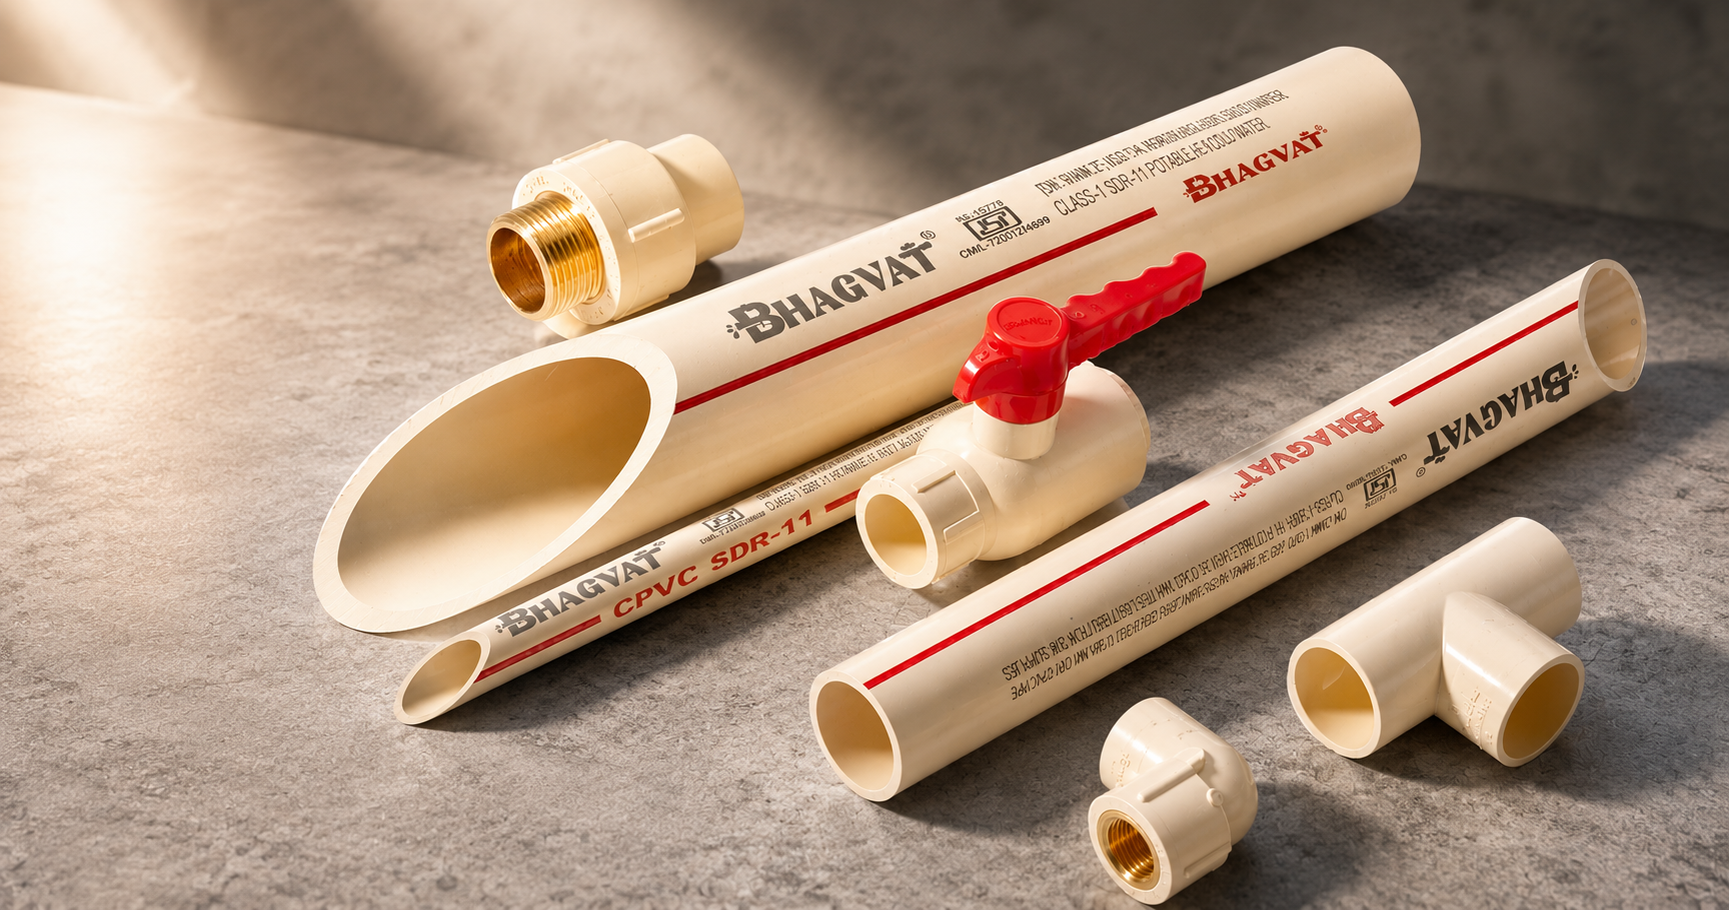
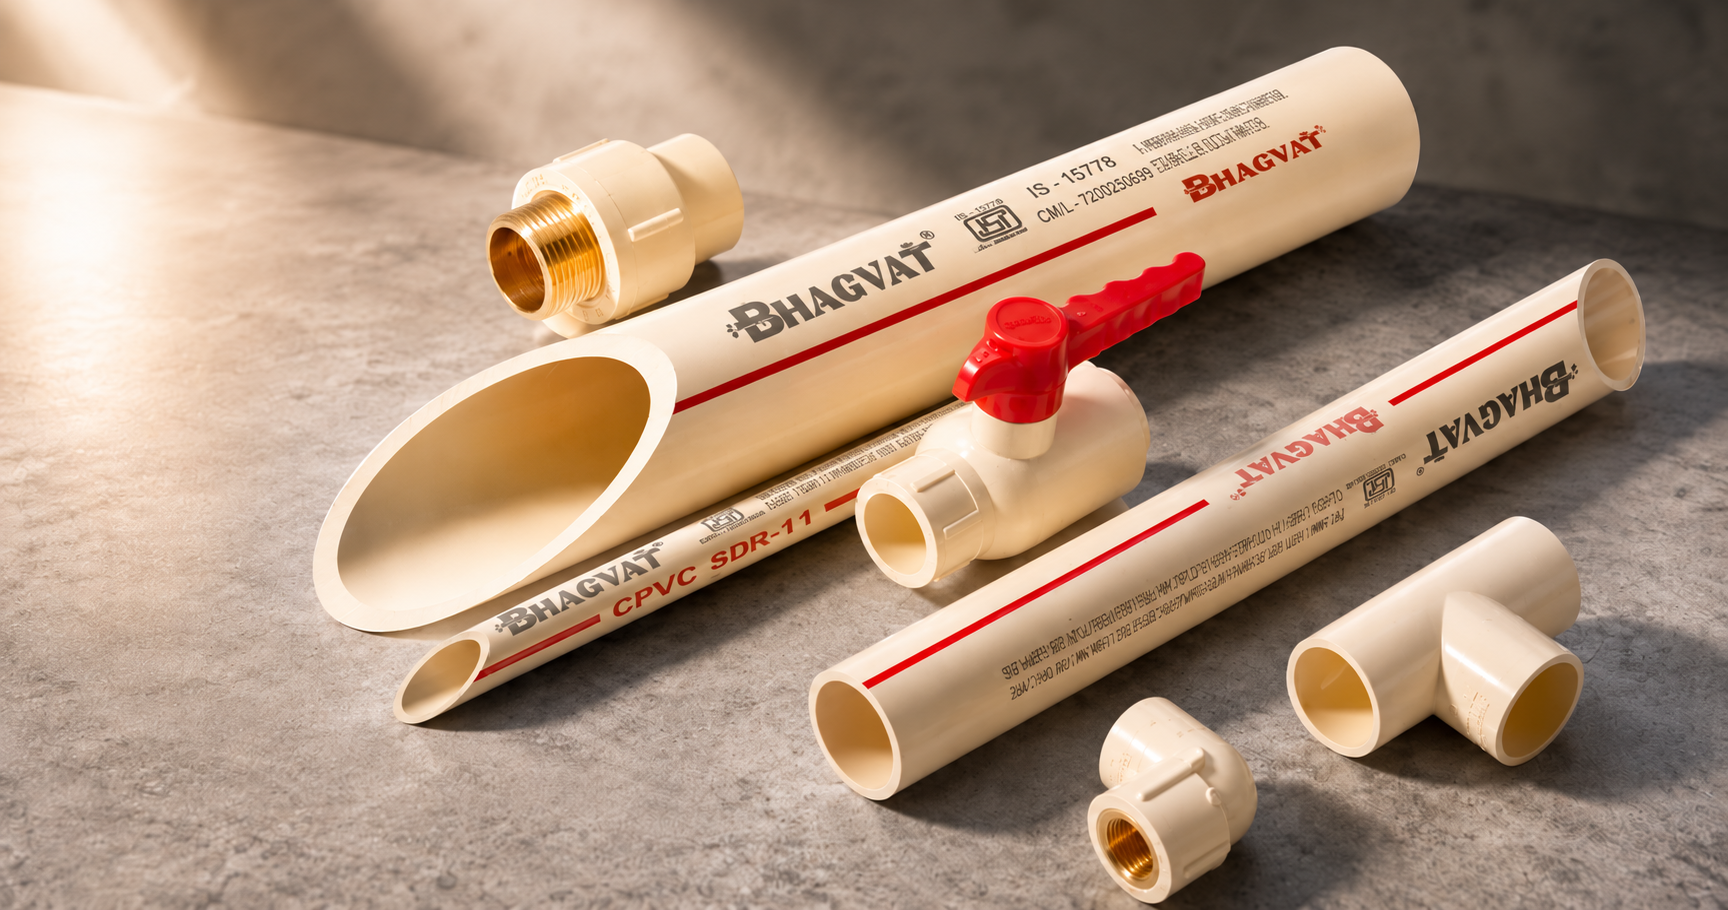
changes acter voice notes

diff --git a/src/components/products/cpvc-plain-fittings/CPVCPlainFittingCatalog.jsx b/src/components/products/cpvc-plain-fittings/CPVCPlainFittingCatalog.jsx
@@ -15,7 +15,7 @@ import {
 // import ImgMTA from "../../../../public/Images/products/cpvc/plain/MTA.jpeg";
 // import ImgFTA from "../../../../public/Images/products/cpvc/plain/FTA.jpeg";
 // import ImgCoupler from "../../../../public/Images/products/cpvc/plain/Coupler.jpeg";
-// import ImgEndCap from "../../../../public/Images/products/cpvc/plain/EndCap.png";
+// import ImgEndCap from "../../../../public/Images/products/cpvc/plain/EndCap.jpeg";
 // import ImgUnion from "../../../../public/Images/products/cpvc/plain/Union.jpeg";
 // import Img45D from "../../../../public/Images/products/cpvc/plain/45D.jpeg";
 // import ImgReducerTee from "../../../../public/Images/products/cpvc/plain/REDUCERTEE.png";
@@ -63,7 +63,7 @@ const products =
   {
     "title": "End Cap",
     "desc": "Seals the pipe end securely to prevent water leakage.",
-    "img": "/Images/products/cpvc/plain/EndCap.png"
+    "img": "/Images/products/cpvc/plain/EndCap.jpeg"
   },
   {
     "title": "Union",
@@ -94,6 +94,16 @@ const products =
     "title": "Cross Tee",
     "desc": "Four-way fitting used to distribute water flow in multiple directions.",
     "img": "/Images/products/cpvc/plain/CROSSTEE.png"
+  },
+     {
+    "title": "Reducer Coupler",
+    "desc": "Joins different pipe sizes while maintaining smooth flow.",
+    "img": "/Images/products/cpvc/plain/REDUCERCOUPLER.jpeg"
+  },
+  {
+    "title": "Reducer Bush",
+    "desc": "Ensures seamless transition between varying pipe diameters.",
+    "img": "/Images/products/cpvc/plain/REDUCERBUSH.jpeg"
   },
   {
     "title": "End Plug",

diff --git a/src/components/home/CPVCSEOSection.jsx b/src/components/home/CPVCSEOSection.jsx
@@ -14,26 +14,26 @@ const seoCategories = [
       "CPVC PIPE FOR HOT WATER, 0.5 inch",
       "BHAGVAT 2 inches ISI CPVC PLUMBIG PIPE",
       "CPVC Plastic Plumbing Pipes Bhagvat",
-      "BHAGVAT 1 inch Cpvc Pipes Sdr-13.5, DR 9, SDR7 5 Mtr",
-      "Cpvc Pipes Sdr-13.5, DR 9, SDR7 3 Mtr",
+      "BHAGVAT 1 inch Cpvc Pipes Sdr-13.5, SDR 9, SDR7 5 Mtr",
+      "Cpvc Pipes Sdr-13.5, SDR 9, SDR7 3 Mtr",
       "BHAGVAT 0.5 inch Cpvc Pipes Sdr-11 5 Mtr",
       "BHAGVAT 2 inches CPVC PIPES SDR 11",
       "BHAGVAT Cpvc Pipes Sdr-11 5 Mtr",
       "BHAGVAT CPVC Pipe SDR-11 5 Mtr",
       "BHAGVAT 1 inch Cpvc Pipes Sdr 11 5 Mtr",
-      "CPVC Pipe Sdr-13.5, DR 9, SDR7 3mtr",
-      "BHAGVAT 0.75 inch CPVC Pipe SDR-13.5, DR 9, SDR7 5 MTR",
+      "CPVC Pipe Sdr-13.5, SDR 9, SDR7 3mtr",
+      "BHAGVAT 0.75 inch CPVC Pipe SDR-13.5, SDR 9, SDR7 5 MTR",
       "CPVC Pipe - SDR 11",
-      "CPVC Pipe - SDR 13.5, DR 9, SDR7",
+      "CPVC Pipe - SDR 13.5, SDR 9, SDR7",
       "3/4 inch CPVC SDR 11 C SDR 119",
       "CPVC 2 inches Chlorinated Polyvinyl Chloride Pipe",
       "Isi Cpvc Pipes",
       "Bhagvat 11 SDR CPVC Pipe",
       "Cpvc Pipe 3 Mtr",
       "CPVC Pipe 3 Mtr",
-      "Bhagvat 13.5, DR 9, SDR7 SDR 1 Inch CPVC Pipe",
+      "Bhagvat 13.5, SDR 9, SDR7 SDR 1 Inch CPVC Pipe",
       "1 inch Bhagvat CPVC Pipe",
-      "0.75 inch Bhagvat CPVC SDR-13.5, DR 9, SDR7 PIPES",
+      "0.75 inch Bhagvat CPVC SDR-13.5, SDR 9, SDR7 PIPES",
       "CPVC Pipes Sch-40 5 Mtr",
       "CPVC Pipes Sch-80 5 Mtr",
       "CPVC Pipe Sch-40 5 Mtr",

diff --git a/src/components/home/WhyBhagvat.jsx b/src/components/home/WhyBhagvat.jsx
@@ -1,21 +1,21 @@
 import React from "react";
 import Image from "next/image";
 
-import FactoryImg from "../../../public/Images/home/factory.webp";
+import FactoryImg from "../../../public/Images/home/factory.png";
 import Pipes from "../../../public/Images/home/Pipes.png";
 // import Broucher from "../../../public/Doc/Bhagvat.pdf";
 import Link from "next/link";
 
 const features = [
   {
-    number: "15+",
+    number: "13+",
     title: "Years Experience",
     desc: "Trusted manufacturing expertise in CPVC, UPVC, and SWR piping systems.",
   },
   {
     number: "ISI Certified",
     title: "Certified Quality",
-    desc: "ISI 9001:2015 and ISI certified manufacturing standards.",
+    desc: "IS 15778 ISI certified manufacturing standard",
   },
   {
     number: "PAN India and Export",
@@ -25,7 +25,7 @@ const features = [
   {
     number: "SCH",
     title: "Industrial Standards",
-    desc: "Engineered with SDR 11, SDR 13.5, DR 9, SDR7, SCH 40 & SCH 80 specifications.",
+    desc: "Engineered with SDR 11, SDR 13.5, SDR 9, SDR7, SCH 40 & SCH 80 specifications.",
   },
 ];
 

diff --git a/src/components/products/swr-self-fittings/SwrSelfFitCatalog.jsx b/src/components/products/swr-self-fittings/SwrSelfFitCatalog.jsx
@@ -17,7 +17,7 @@ import ImgDoorBend from "../../../../public/Images/products/upvc/selffit/DOORBEN
 import ImgDoorSingleTee from "../../../../public/Images/products/upvc/selffit/DOORSINGLETEE.png";
 import ImgDoorSingleY from "../../../../public/Images/products/upvc/selffit/DOORSINGLEY.png";
 import ImgDoubleTee4Way from "../../../../public/Images/products/upvc/selffit/DOUBLETEE4WAY.png";
-import ImgEndCap from "../../../../public/Images/products/upvc/selffit/ENDCAP.png";
+import ImgEndCap from "../../../../public/Images/products/upvc/selffit/EndCap.jpeg";
 import ImgNaniTrap from "../../../../public/Images/products/upvc/selffit/NANITRAP.png";
 import ImgPTrap from "../../../../public/Images/products/upvc/selffit/PTRAP.png";
 import ImgReducer from "../../../../public/Images/products/upvc/selffit/REDUCER.png";

diff --git a/src/components/products/cpvc-brass-fittings/CPVCBrassCatalog.jsx b/src/components/products/cpvc-brass-fittings/CPVCBrassCatalog.jsx
@@ -35,16 +35,6 @@ const products = [
     desc: "Female threaded adapter for secure pipe-to-threaded fitting connections.",
     img: ImgBrassFTA,
   },
-   {
-    "title": "Reducer Coupler",
-    "desc": "Joins different pipe sizes while maintaining smooth flow.",
-    "img": "/Images/products/cpvc/plain/REDUCERCOUPLER.jpeg"
-  },
-  {
-    "title": "Reducer Bush",
-    "desc": "Ensures seamless transition between varying pipe diameters.",
-    "img": "/Images/products/cpvc/plain/REDUCERBUSH.jpeg"
-  },
   {
     "title": "3 in 1 Wall Mixer",
     "desc": "Special fitting designed for wall mixer installations with multiple outlet connections.",

diff --git a/src/components/about/CertificationsSection.jsx b/src/components/about/CertificationsSection.jsx
@@ -2,7 +2,7 @@ import React from "react";
 
 const standards = [
   {
-    title: "ISI 9001:2015",
+    title: "ISO 9001:2015",
     desc: "Certified manufacturing standards focused on quality, consistency, and industrial reliability.",
   },
   {
@@ -10,7 +10,7 @@ const standards = [
     desc: "Products engineered to meet recognized infrastructure and piping quality benchmarks.",
   },
   {
-    title: "SDR 11 / SDR 13.5, DR 9, SDR7",
+    title: "SDR 11 / SDR 13.5, SSDR 9, SDR7",
     desc: "Pressure-rated piping systems designed for long-term durability and stable performance.",
   },
   {

diff --git a/src/components/products/cpvc-plumbing-pipe/CPVCVariants.jsx b/src/components/products/cpvc-plumbing-pipe/CPVCVariants.jsx
@@ -24,13 +24,13 @@ const variants = [
   },
 
   {
-    title: "C-PVC SDR 13.5, DR 9, SDR7 Pipe",
+    title: "C-PVC SDR 13.5, SDR 9, SDR7 Pipe",
     image: SDR135Img,
     desc: "Reliable plumbing infrastructure solution designed for corrosion resistance, smooth water flow, and dependable long service life.",
     tags: [
       "Corrosion Resistant",
       "Leak Resistant",
-      "SDR 13.5, DR 9, SDR7",
+      "SDR 13.5, SDR 9, SDR7",
       "Long Service Life",
     ],
     application: "Water Distribution • Infrastructure Projects",

diff --git a/src/components/home/ProductSection.jsx b/src/components/home/ProductSection.jsx
@@ -11,7 +11,7 @@ const products = [
     title: "CPVC Pipes",
     desc: "High-performance hot & cold water piping systems engineered for durability and pressure resistance.",
     image: CPVCImg,
-    tag: "SDR 11 • SDR 13.5, DR 9, SDR7",
+    tag: "SDR 11 • SDR 13.5, SDR 9, SDR7",
   },
   {
     title: "UPVC Pipes",

diff --git a/src/components/products/cpvc-plumbing-pipe/CPVCIntro.jsx b/src/components/products/cpvc-plumbing-pipe/CPVCIntro.jsx
@@ -6,7 +6,7 @@ import CPVCPipeImg from "../../../../public/Images/products/one/hero.png";
 const specifications = [
   "IS 15778",
   "SDR 11",
-  "SDR 13.5, DR 9, SDR7",
+  "SDR 13.5, SDR 9, SDR7",
   "SCH 40",
   "SCH 80",
   "Hot & Cold Water",

diff --git a/src/components/about/hero.jsx b/src/components/about/hero.jsx
@@ -113,7 +113,7 @@ const AboutHero = () => {
 
               <h3 className="mt-1 text-xl font-semibold text-black">
 
-                15+ Years Experience
+                13+ Years Experience
 
               </h3>
             </div>

diff --git a/src/components/about/AboutStory.jsx b/src/components/about/AboutStory.jsx
@@ -2,7 +2,7 @@ import React from "react";
 
 const stats = [
   {
-    value: "15+",
+    value: "13+",
     label: "Years Experience",
   },
   {
